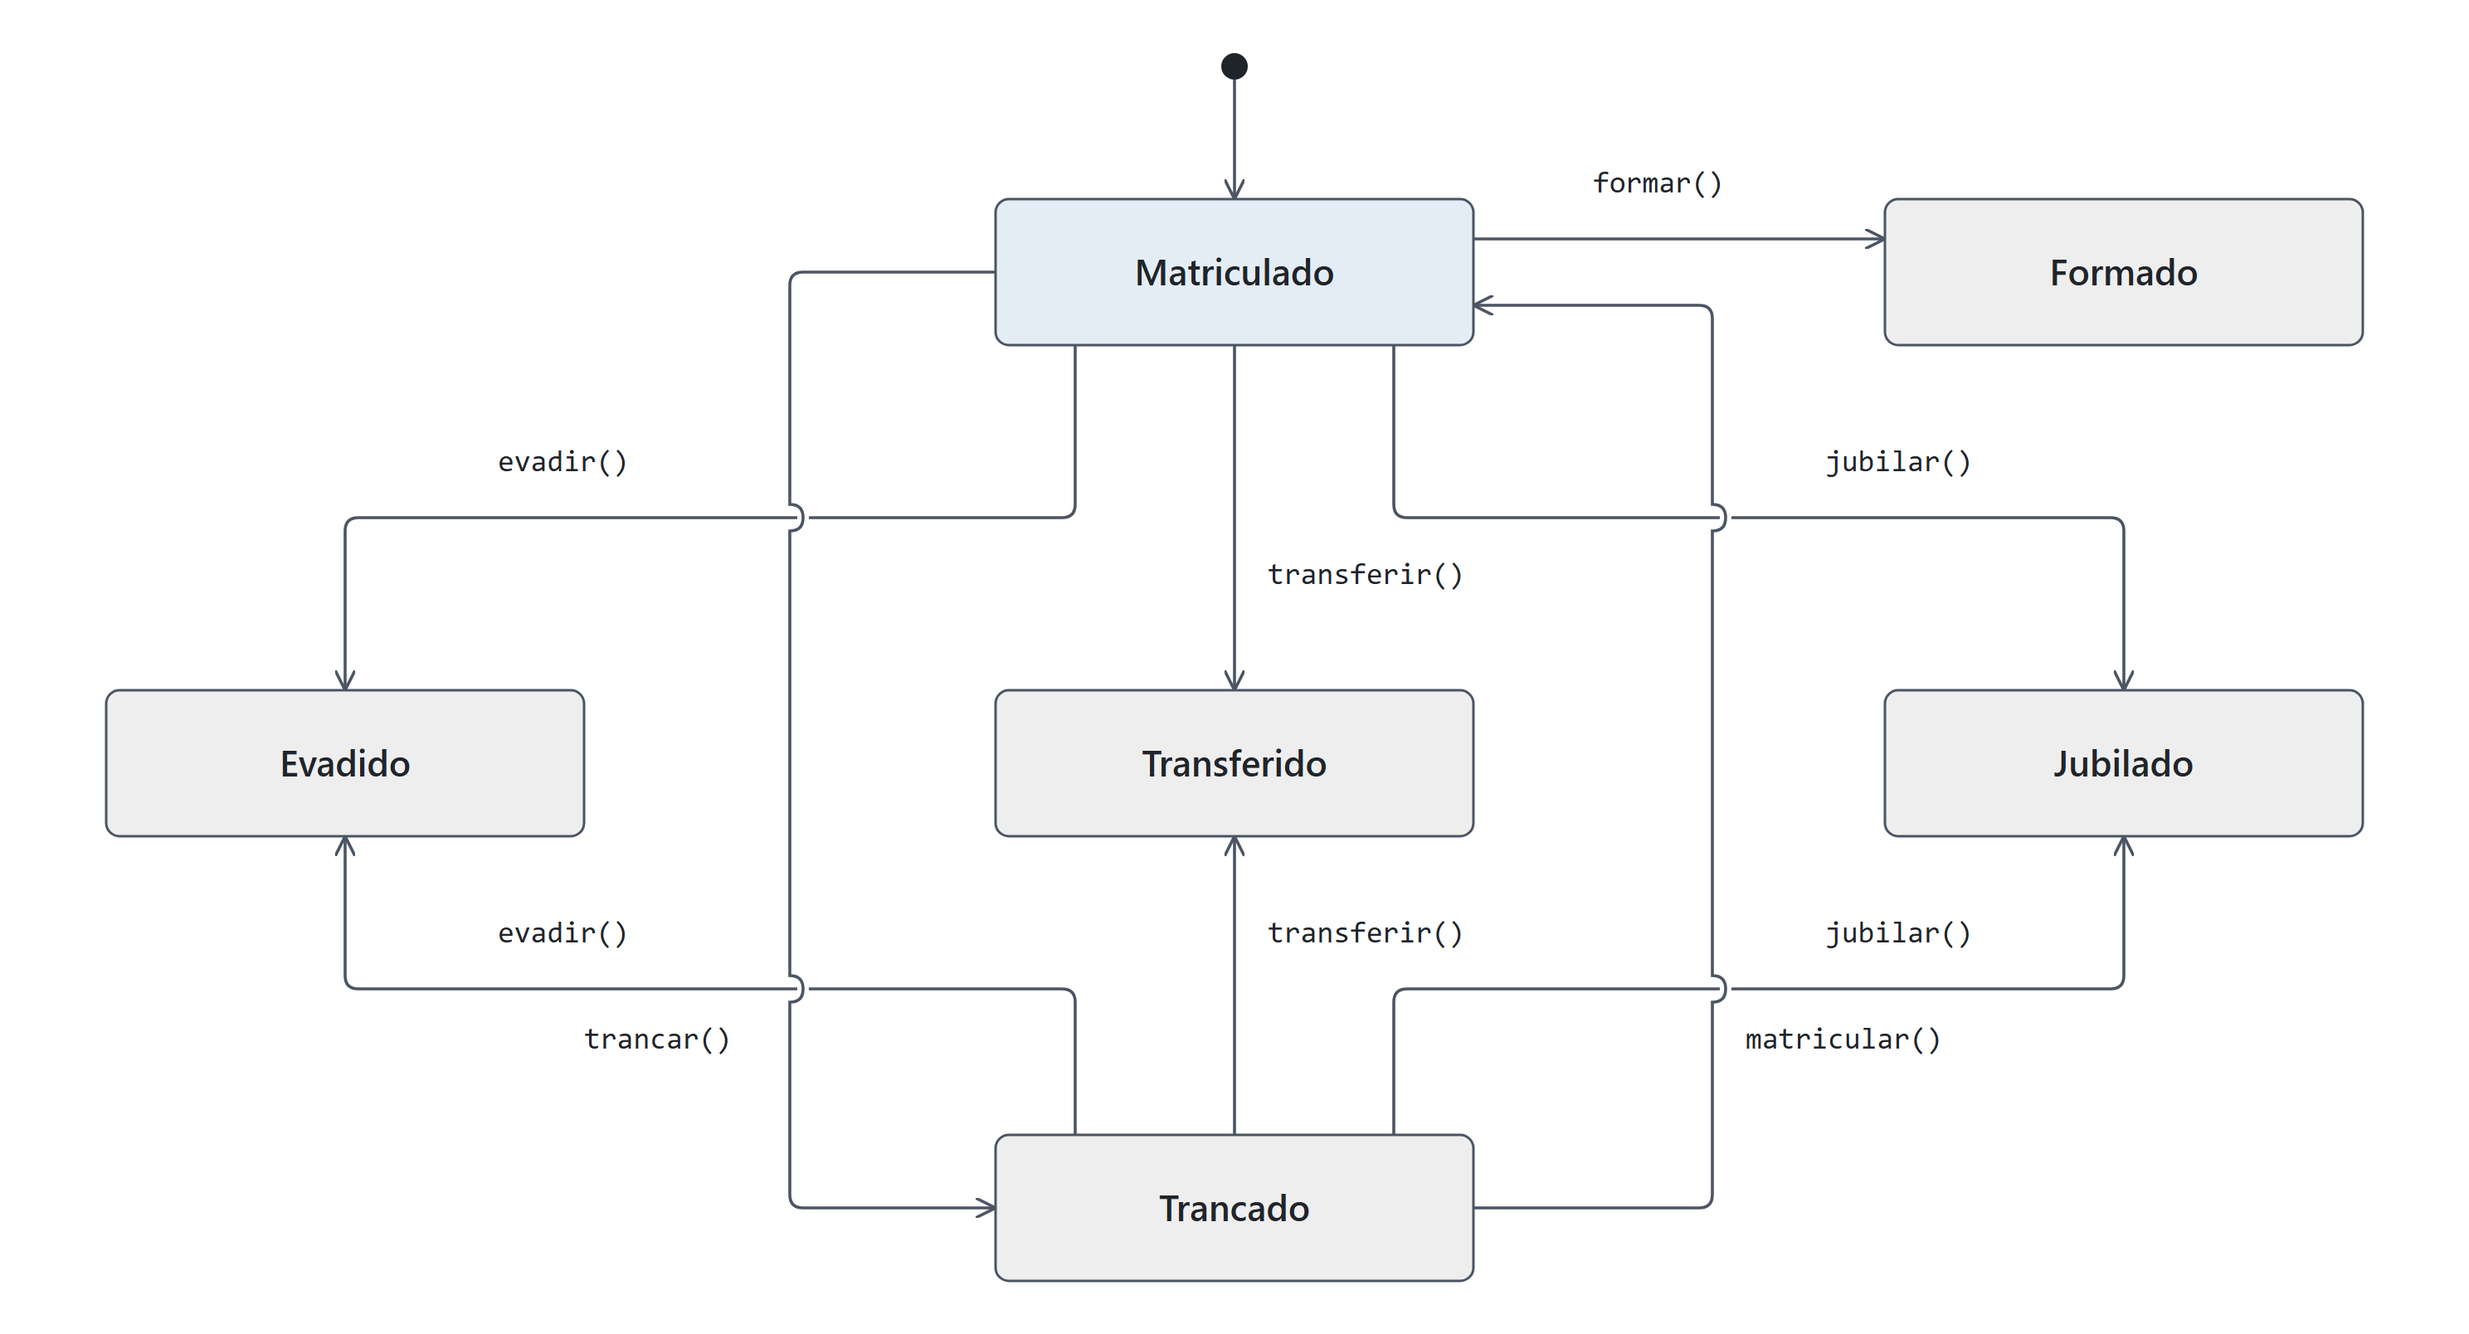
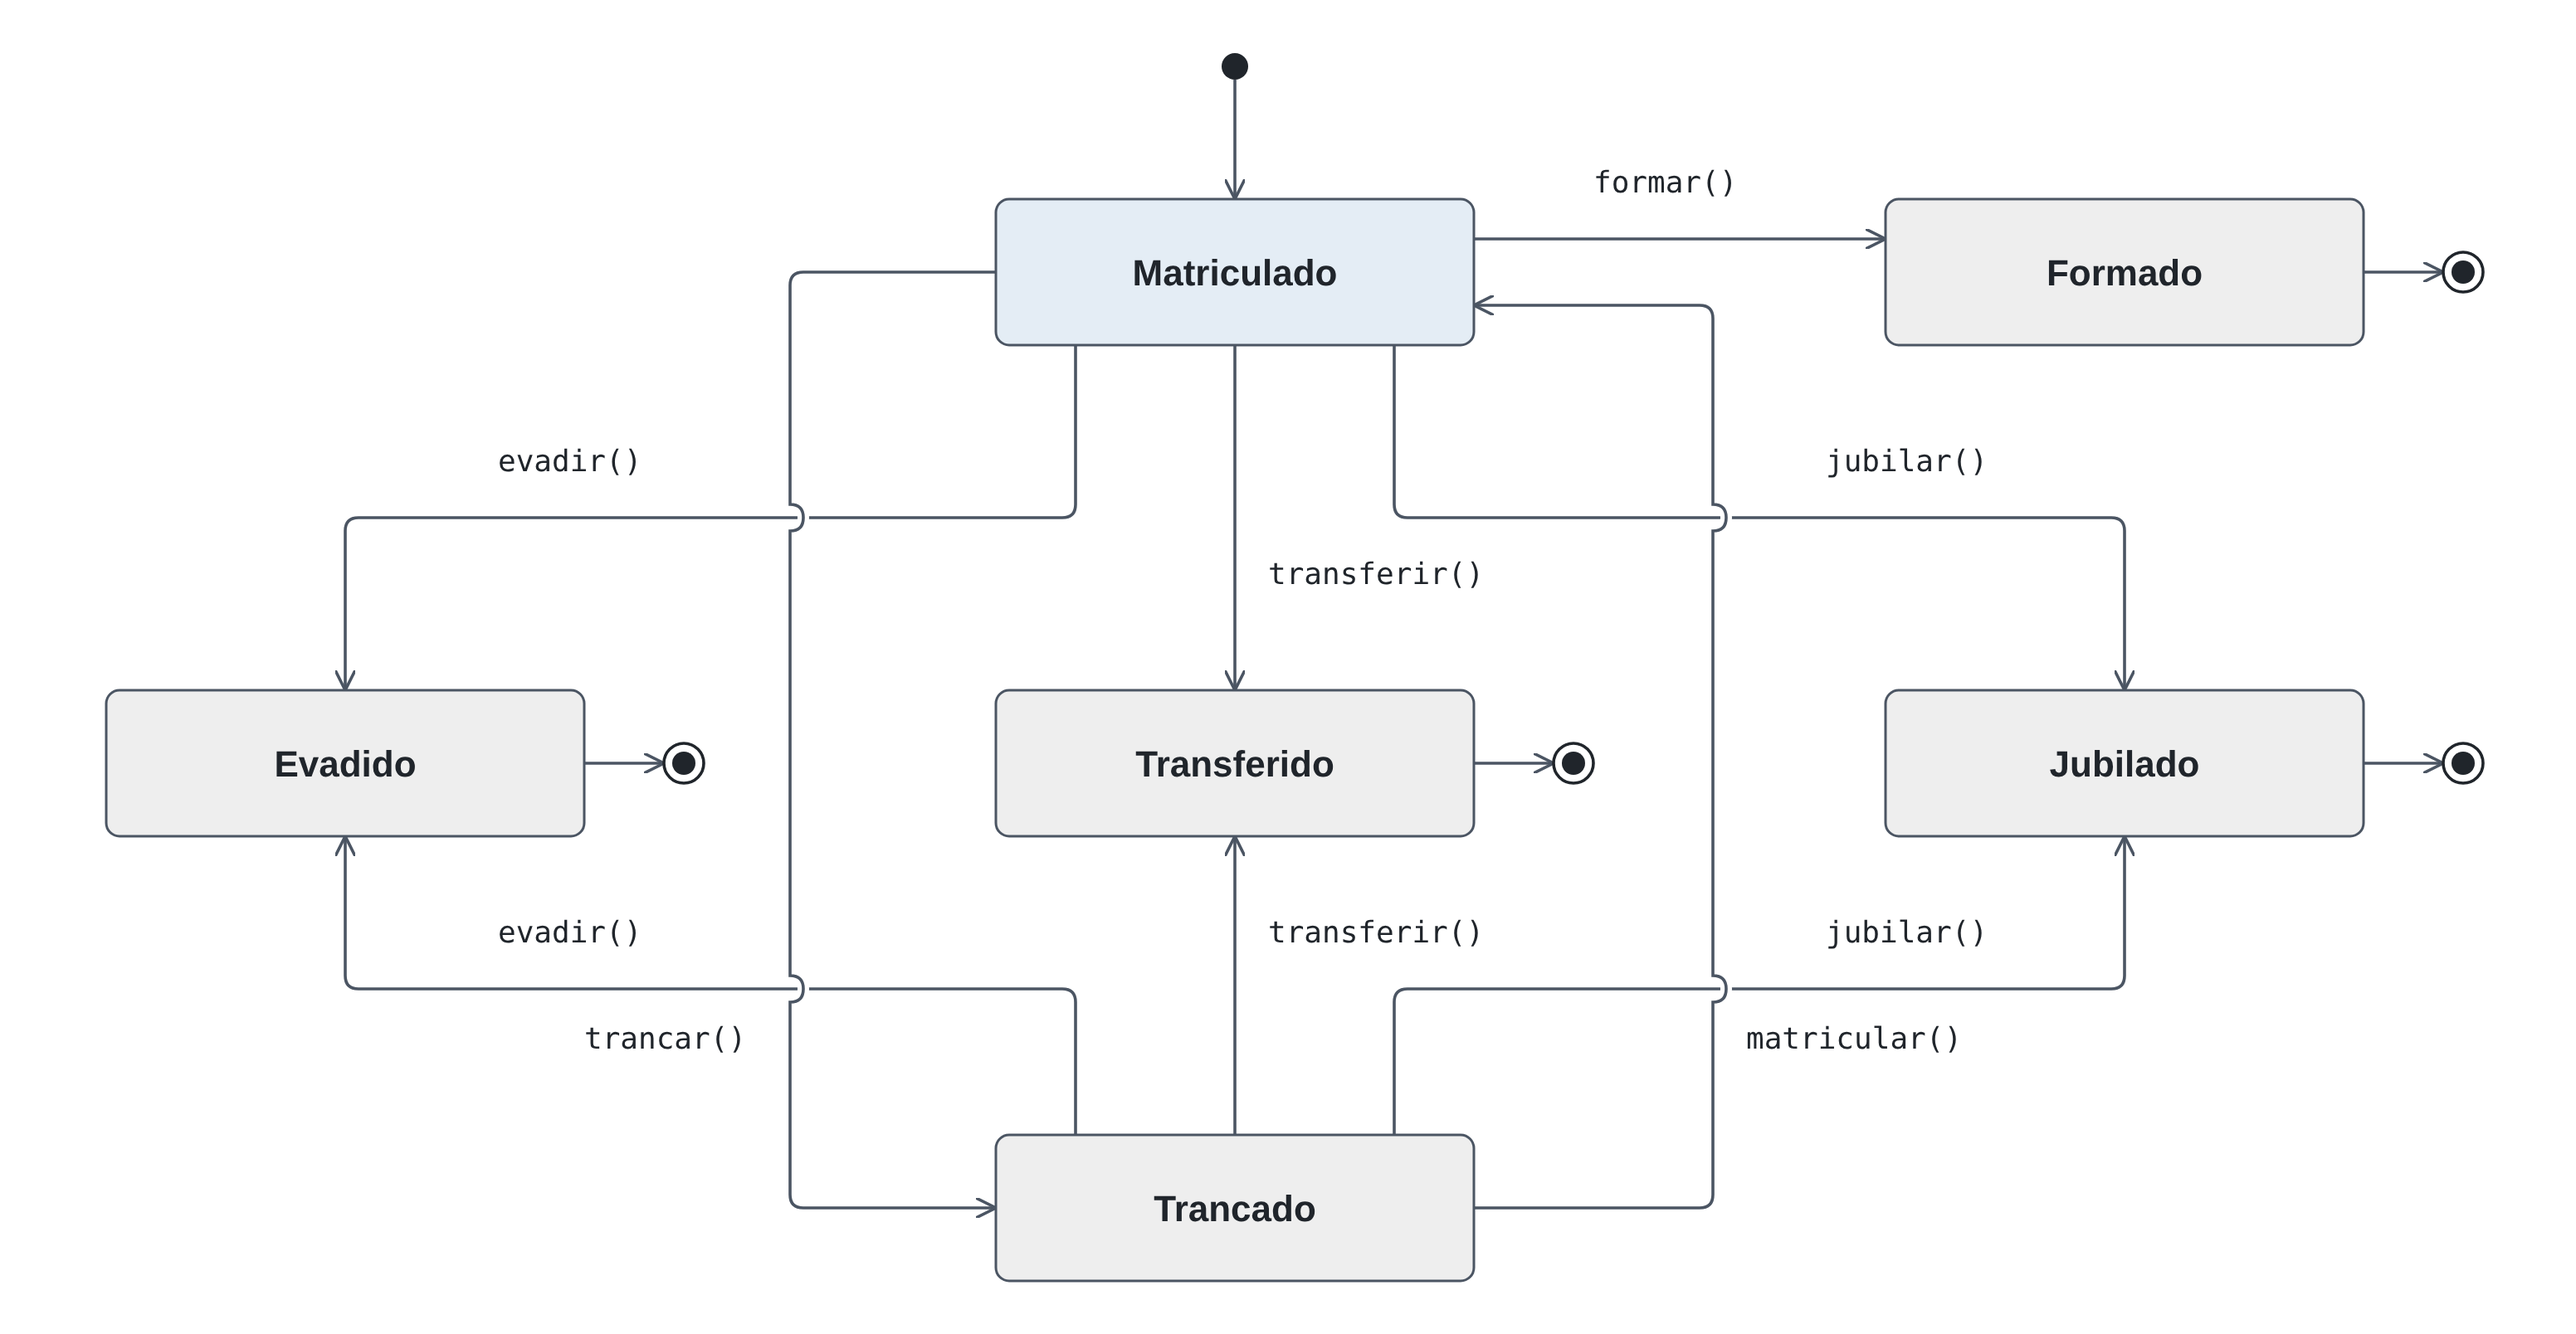
docs: adiciona estados finais ao diagrama de estados

diff --git a/docs/diagrama-estados.html b/docs/diagrama-estados.html
@@ -1,15 +1,15 @@
 <!DOCTYPE html><html lang="pt-BR"><head><meta charset="utf-8">
 <title>Estados do aluno — UML</title><style>
-html,body{margin:0;background:white;}svg{display:block;width:1488px;height:804px;}
+html,body{margin:0;background:white;}svg{display:block;width:1552px;height:804px;}
 .state-name{font:600 22px 'Segoe UI',sans-serif;fill:#20252b;}
 .event{font:18px Consolas,monospace;fill:#20252b;}
 .edge{fill:none;stroke:#4b5563;stroke-width:1.8;}
 </style></head><body>
-<svg xmlns="http://www.w3.org/2000/svg" viewBox="0 0 1488 804" role="img" aria-labelledby="diagrama-estados-title diagrama-estados-desc">
+<svg xmlns="http://www.w3.org/2000/svg" viewBox="0 0 1552 804" role="img" aria-labelledby="diagrama-estados-title diagrama-estados-desc">
 <title id="diagrama-estados-title">Estados acadêmicos do aluno</title>
-<desc id="diagrama-estados-desc">O aluno inicia matriculado, pode trancar e se rematricular; matriculado pode formar, transferir, evadir ou jubilar, enquanto trancado pode transferir, evadir ou jubilar; esses quatro estados não permitem novas transições.</desc>
+<desc id="diagrama-estados-desc">O aluno inicia matriculado, pode trancar e se rematricular; matriculado pode formar, transferir, evadir ou jubilar, enquanto trancado pode transferir, evadir ou jubilar. Formado, Evadido, Transferido e Jubilado não permitem novas mudanças de situação acadêmica; cada um se liga a um estado final UML, indicando o encerramento do ciclo acadêmico modelado.</desc>
 <defs><marker id="state-arrow" markerWidth="12" markerHeight="12" refX="12" refY="6" orient="auto" markerUnits="userSpaceOnUse"><path d="M0 0 L12 6 L0 12" fill="none" stroke="#4b5563" stroke-width="1.8"/></marker></defs>
-<rect width="1488" height="804" fill="white"/>
+<rect width="1552" height="804" fill="white"/>
 <circle cx="744" cy="40" r="8" fill="#20252b"/>
 <path class="edge" d="M744 48 V120" marker-end="url(#state-arrow)"/>
 
@@ -57,4 +57,25 @@ html,body{margin:0;background:white;}svg{display:block;width:1488px;height:804px
 <g class="state-box" data-name="Evadido"><rect x="64" y="416" width="288" height="88" rx="8" fill="#eeeeee" stroke="#4b5563" stroke-width="1.5"/><text class="state-name" x="208" y="468" text-anchor="middle">Evadido</text></g>
 <g class="state-box" data-name="Transferido"><rect x="600" y="416" width="288" height="88" rx="8" fill="#eeeeee" stroke="#4b5563" stroke-width="1.5"/><text class="state-name" x="744" y="468" text-anchor="middle">Transferido</text></g>
 <g class="state-box" data-name="Jubilado"><rect x="1136" y="416" width="288" height="88" rx="8" fill="#eeeeee" stroke="#4b5563" stroke-width="1.5"/><text class="state-name" x="1280" y="468" text-anchor="middle">Jubilado</text></g>
+<!-- Transições de conclusão do ciclo acadêmico, sem novos eventos de domínio. -->
+<g class="completion-transition" data-source="Formado" data-target="FinalFormado">
+<path class="edge" d="M1424 164 H1472" marker-end="url(#state-arrow)"/></g>
+<g class="completion-transition" data-source="Evadido" data-target="FinalEvadido">
+<path class="edge" d="M352 460 H400" marker-end="url(#state-arrow)"/></g>
+<g class="completion-transition" data-source="Transferido" data-target="FinalTransferido">
+<path class="edge" d="M888 460 H936" marker-end="url(#state-arrow)"/></g>
+<g class="completion-transition" data-source="Jubilado" data-target="FinalJubilado">
+<path class="edge" d="M1424 460 H1472" marker-end="url(#state-arrow)"/></g>
+<g class="final-state" data-name="FinalFormado">
+<circle cx="1484" cy="164" r="12" fill="white" stroke="#20252b" stroke-width="1.8"/>
+<circle cx="1484" cy="164" r="7" fill="#20252b"/></g>
+<g class="final-state" data-name="FinalEvadido">
+<circle cx="412" cy="460" r="12" fill="white" stroke="#20252b" stroke-width="1.8"/>
+<circle cx="412" cy="460" r="7" fill="#20252b"/></g>
+<g class="final-state" data-name="FinalTransferido">
+<circle cx="948" cy="460" r="12" fill="white" stroke="#20252b" stroke-width="1.8"/>
+<circle cx="948" cy="460" r="7" fill="#20252b"/></g>
+<g class="final-state" data-name="FinalJubilado">
+<circle cx="1484" cy="460" r="12" fill="white" stroke="#20252b" stroke-width="1.8"/>
+<circle cx="1484" cy="460" r="7" fill="#20252b"/></g>
 </svg></body></html>
